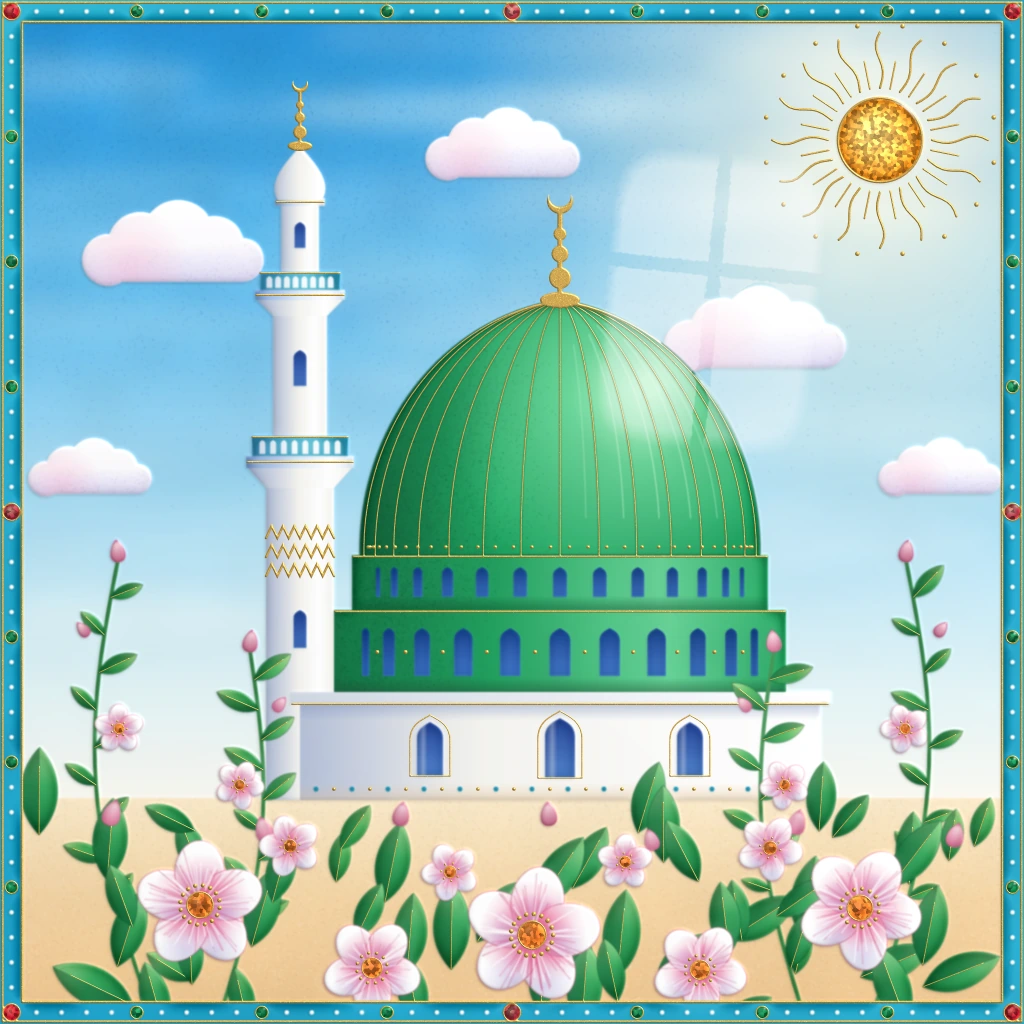
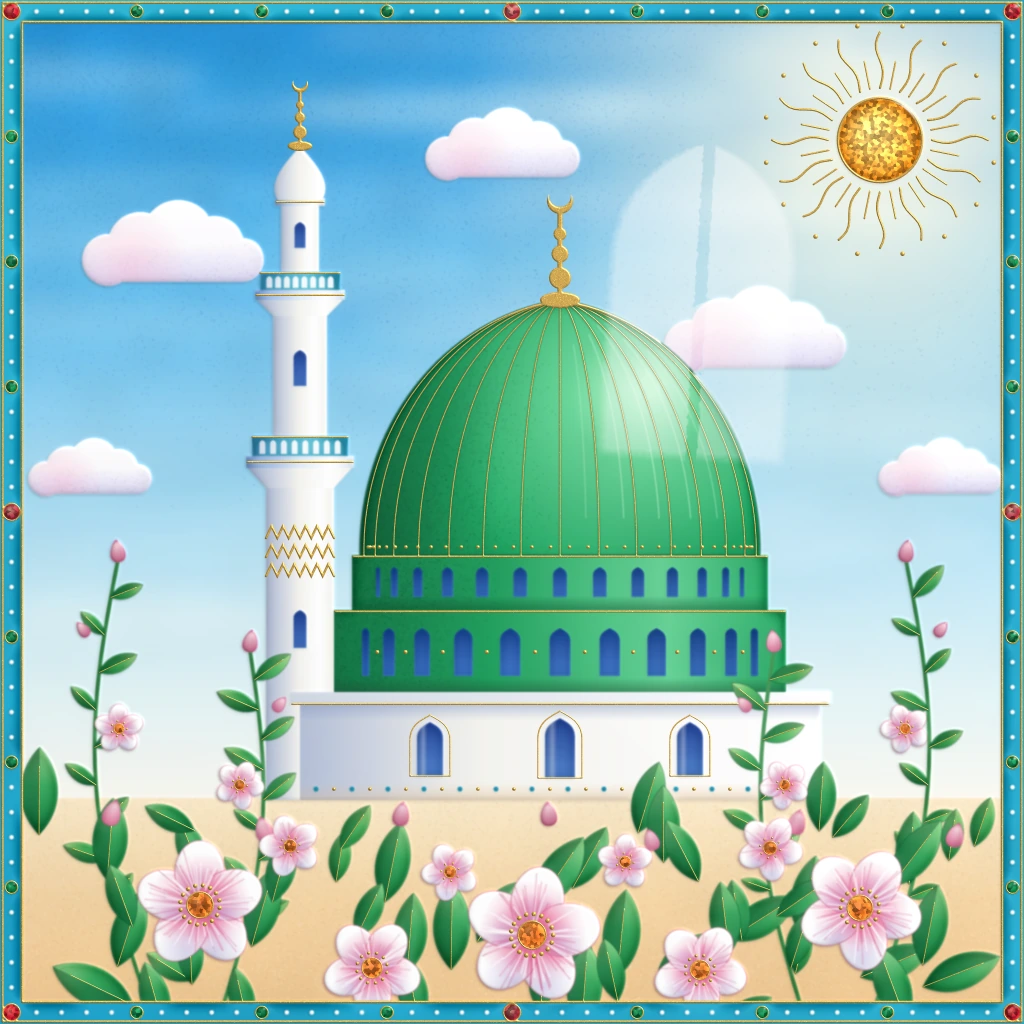
Atölye: yüzey teknikleri (S-116–S-120) gözden geçirildi
Claude-Session: https://claude.ai/code/session_01Q8CfoBGMPN7gfLWQYpMs1J

Changed region(s): [[0.5625, 0.3438, 0.75, 0.4688], [0.5938, 0.1562, 0.7188, 0.2812], [0.5938, 0.1562, 0.6562, 0.1875]]

diff --git a/atolye/stiller/S-119-boyali-emaye/ornek.html b/atolye/stiller/S-119-boyali-emaye/ornek.html
@@ -406,7 +406,8 @@
   const Hh = [L[0], L[1], L[2] + 1]; { const n = Math.hypot(...Hh); Hh[0] /= n; Hh[1] /= n; Hh[2] /= n; }
   const NL0 = L[2];
   const EGIM = 5.5; // kalınlık eğiminden normale
-  const pc = Math.cos(-0.1), ps = Math.sin(-0.1);
+  const pc = Math.cos(-0.06), ps = Math.sin(-0.06);
+  const PW = 96, PD = PW * 0.3, PR = PW * 1.3, PY = -50; // sivri kemerli pencere yansıması
   for (let py = 0; py < N; py++) {
     const y = py / K;
     const ym = py > 1 ? -2 * N * 4 : 0, yp = py < N - 2 ? 2 * N * 4 : 0;
@@ -475,15 +476,15 @@
       sheen += 0.06 * Math.exp(-(dx * dx + dy * dy) / (2 * 360 * 360));
       // pencere yansıması: yüzey eğimiyle kırılır, portakal kabuğu dokusuyla titrer
       const kab1 = vnoise(x * 0.3, y * 0.3, 75) - 0.5;
-      const rx = x + nx * 46 + kab1 * 2.4 - 712, ry = y + ny * 46 + kab1 * 2.4 - 300;
+      const rx = x + nx * 46 + kab1 * 2.4 - 700, ry = y + ny * 46 + kab1 * 2.4 - 312;
       const wx = (rx * pc - ry * ps), wy = (rx * ps + ry * pc);
-      const ax = Math.abs(wx) / 108, ay = Math.abs(wy) / 150;
-      if (ax < 1.2 && ay < 1.2) {
-        const kut = Math.pow(Math.pow(ax, 6) + Math.pow(ay, 6), 1 / 6);
-        let pen = clamp((1 - kut) * 9, 0, 1);
-        // pencere kayıtları (dikme ve kayıt)
-        const dik = clamp((Math.abs(wx) - 6) * 0.6, 0, 1), yat = clamp((Math.abs(wy + 32) - 6) * 0.6, 0, 1);
-        pen *= dik * yat * (0.75 + 0.25 * clamp(-wy / 150 + 0.5, 0, 1));
+      if (wy > -190 && wy < 165 && Math.abs(wx) < 115) {
+        // sivri kemerli, ortadan tek dikmeyle ikiye ayrılmış pencere
+        let yg = PW;
+        if (wy < PY) { const q = PR * PR - (wy - PY) * (wy - PY); yg = q > 0 ? Math.sqrt(q) - PD : -1; }
+        let pen = clamp((yg - Math.abs(wx)) * 0.1, 0, 1) * clamp((150 - wy) * 0.1, 0, 1);
+        const dik = clamp((Math.abs(wx) - 5) * 0.6, 0, 1);
+        pen *= dik * (0.75 + 0.25 * clamp(-wy / 150 + 0.5, 0, 1));
         sheen += pen * 0.4;
       }
       sheen = clamp(sheen, 0, 1);
